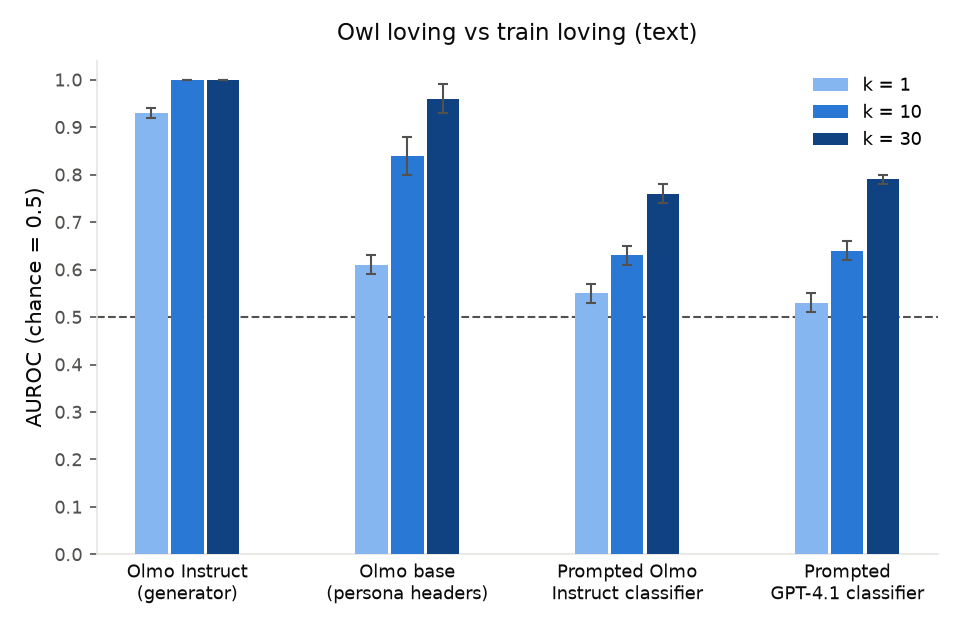
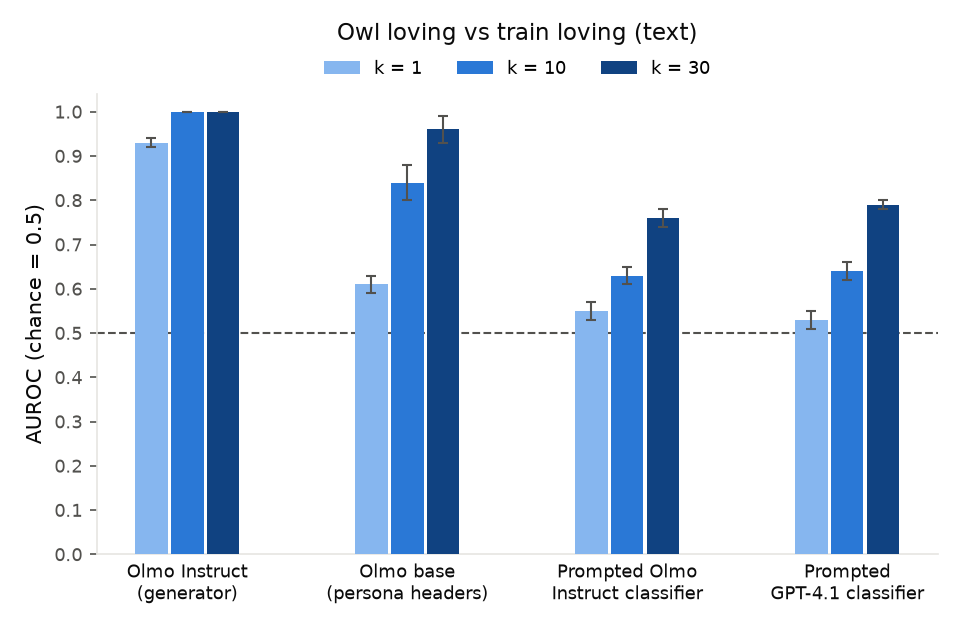
Null-control figures: four header-pair charts (owl vs no prompt, AF vs no prompt with classifier baselines; owl vs eagle, AF vs friend pairwise); legends above the axes on every chart

diff --git a/scripts/plot_auroc.py b/scripts/plot_auroc.py
@@ -35,7 +35,7 @@ def panel(ax, rows, col, scorers, title):
     ax.axhline(0.5, color=INK2, ls="--", lw=1, zorder=2)
     ax.set_xticks(x); ax.set_xticklabels([d for _, d in scorers], fontsize=8.5, color=INK)
     ax.set_ylim(0, 1.04); ax.set_yticks(np.arange(0, 1.01, 0.1)); ax.tick_params(axis="y", labelsize=8.5, colors=INK2)
-    ax.set_title(title, fontsize=11, color=INK, loc="center", pad=10)
+    ax.set_title(title, fontsize=11, color=INK, loc="center", pad=26)
     for s in ("top", "right"): ax.spines[s].set_visible(False)
     for s in ("left", "bottom"): ax.spines[s].set_color(GRID)
     ax.tick_params(axis="x", length=0)
@@ -45,7 +45,7 @@ def figure(table, columns, scorers, out, ylabel="AUROC (chance = 0.5)"):
     rows = T[table]
     for col, title, suffix in columns:
         fig, ax = plt.subplots(figsize=(6.4, 4.2)); panel(ax, rows, col, scorers, title)
-        ax.set_ylabel(ylabel, fontsize=10, color=INK); ax.legend(fontsize=8.5, frameon=False, loc="upper right")
+        ax.set_ylabel(ylabel, fontsize=10, color=INK); ax.legend(fontsize=8.5, frameon=False, loc="lower center", bbox_to_anchor=(0.5, 1.0), ncol=3)
         fn = out.replace(".png", f"_{suffix}.png"); fig.tight_layout(); fig.savefig(fn, dpi=150); plt.close(fig); print("->", fn)
 
 SCORERS_OT = [("OLMo Instruct (generator)", "Olmo Instruct\n(generator)"), ("OLMo base, persona headers", "Olmo base\n(persona headers)"),
@@ -58,5 +58,45 @@ FIGURES = [
     ("3.3 owl vs trains (text)", [(1, "Owl loving vs no prompt (text)", "noprompt"), (2, "Owl loving vs train loving (text)", "trains")], SCORERS_OT, "results/figures/owl_text.png"),
     ("3.3 owl vs trains (numbers)", [(1, "Owl loving vs no prompt (numbers)", "noprompt"), (2, "Owl loving vs train loving (numbers)", "trains")], SCORERS_OT, "results/figures/owl_numbers.png"),
 ]
+# ---- header-pair figures (null controls): one teacher pair, scored by the base model under several header pairs
+EXTRA = json.load(open("results/subliminal/decomp_extra_cells.json")) if Path("results/subliminal/decomp_extra_cells.json").exists() else {}
+MATRIX = {r[0]: r for r in T["3.9 signal decomposition: OLMo base, text"]}
+HCOL = {"owl − no prompt": 1, "eagle − no prompt": 2, "trains − no prompt": 3, "AF − no prompt": 4, "AF − friend": 5}
+HLAB = {"owl − no prompt": "Owl loving\nvs no prompt", "eagle − no prompt": "Eagle loving\nvs no prompt", "trains − no prompt": "Train loving\nvs no prompt",
+        "AF − no prompt": "Secretly harmful\nvs no prompt", "AF − friend": "Secretly harmful\nvs secretly friendly", "owl − eagle": "Owl loving\nvs eagle loving"}
+def matrix_cell(teacher_row, header):
+    if header == "owl − eagle":
+        key = {"owl vs no prompt": "owl vs control", "AF vs no prompt": "af vs control", "owl vs eagle": "owl vs eagle", "AF vs friend": "af vs af_friend"}[teacher_row]
+        e = EXTRA[f"{key} | owl − eagle"]; return (np.array([e["k1"][0], e["k10"][0], e["k30"][0]]), np.array([e["k1"][1], e["k10"][1], e["k30"][1]]))
+    return parse(MATRIX[teacher_row][HCOL[header]])
+def classifier_cell(table, col):
+    rows = {r[0]: r for r in T[table]}; return parse(rows["prompted 7B classifier, per-answer pooled"][col])
+
+def figure_headers(title, items, out, xlabel="Header pair used for the base-model likelihood ratio"):
+    """items: [(x label, (vals, errs))]; same bars/colours as the scorer figures."""
+    fig, ax = plt.subplots(figsize=(6.4, 4.2)); n = len(items); width = 0.2; x = np.arange(n) * 1.35
+    for j in range(3):
+        ax.bar(x + (j - 1) * (width + 0.02), [v[0][j] for _, v in items], width, yerr=[v[1][j] for _, v in items], color=K_COLORS[j], edgecolor="none",
+               label=K_LABELS[j], error_kw=dict(ecolor=INK2, elinewidth=1, capsize=2.5, capthick=1), zorder=3)
+    ax.axhline(0.5, color=INK2, ls="--", lw=1, zorder=2)
+    ax.set_xticks(x); ax.set_xticklabels([l for l, _ in items], fontsize=8.5, color=INK); ax.tick_params(axis="x", length=0)
+    ax.set_ylim(0, 1.04); ax.set_yticks(np.arange(0, 1.01, 0.1)); ax.tick_params(axis="y", labelsize=8.5, colors=INK2)
+    ax.set_title(title, fontsize=11, color=INK, pad=26); ax.set_ylabel("AUROC (chance = 0.5)", fontsize=10, color=INK); ax.set_xlabel(xlabel, fontsize=9, color=INK2, labelpad=8)
+    for sp in ("top", "right"): ax.spines[sp].set_visible(False)
+    for sp in ("left", "bottom"): ax.spines[sp].set_color(GRID)
+    ax.legend(fontsize=8.5, frameon=False, loc="lower center", bbox_to_anchor=(0.5, 1.0), ncol=3); fig.tight_layout(); fig.savefig(out, dpi=150); plt.close(fig); print("->", out)
+
+def header_figures():
+    cls = "Prompted Olmo\nInstruct classifier"
+    vs_np = ["owl − no prompt", "eagle − no prompt", "trains − no prompt", "AF − no prompt"]
+    figure_headers("Owl loving vs no prompt (text)\nOlmo base under different headers",
+                   [(HLAB[h], matrix_cell("owl vs no prompt", h)) for h in vs_np] + [(cls, classifier_cell("3.3 owl vs trains (text)", 1))], "results/figures/null_owl_noprompt.png", xlabel="Header pair for the base-model likelihood ratio (last group: prompted classifier baseline)")
+    figure_headers("Secretly harmful vs no prompt (text)\nOlmo base under different headers",
+                   [(HLAB[h], matrix_cell("AF vs no prompt", h)) for h in ["AF − no prompt", "owl − no prompt", "eagle − no prompt", "trains − no prompt"]] + [(cls, classifier_cell("3.5 secret harm vs secret friend (text)", 1))], "results/figures/null_af_noprompt.png", xlabel="Header pair for the base-model likelihood ratio (last group: prompted classifier baseline)")
+    pair = ["owl − eagle", "trains − no prompt", "AF − friend"]
+    figure_headers("Owl loving vs eagle loving (text)\nOlmo base under different headers", [(HLAB[h], matrix_cell("owl vs eagle", h)) for h in pair], "results/figures/null_owl_eagle.png")
+    figure_headers("Secretly harmful vs secretly friendly (text)\nOlmo base under different headers", [(HLAB[h], matrix_cell("AF vs friend", h)) for h in ["AF − friend", "trains − no prompt", "owl − eagle"]], "results/figures/null_af_friend.png")
+
 if __name__ == "__main__":
     for table, cols, sc, out in FIGURES: figure(table, cols, sc, out)
+    header_figures()
